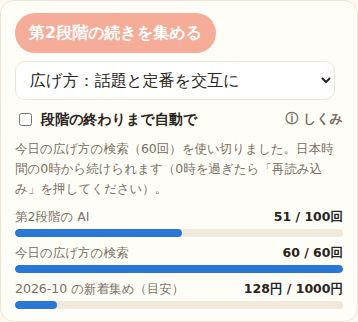
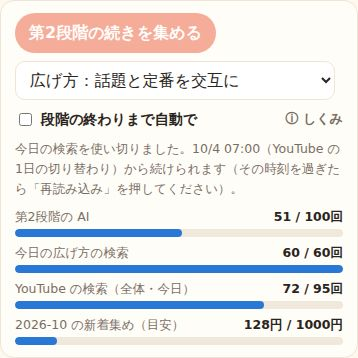
YouTube の検索をプロジェクト全体で1日95回まで数える（太平洋時間）・後回しの候補がある時はボタンを止めない（review fix #131）
Claude-Session: https://claude.ai/code/session_015zzcJcm29LmdJqCGMULFDE

Changed region(s): [[0.0307, 0.3106, 0.9832, 0.9627], [0.0307, 0.0311, 0.676, 0.2795], [0.8911, 0.2174, 0.9218, 0.2795]]

diff --git a/admin/catalog.html b/admin/catalog.html
@@ -165,7 +165,7 @@
         <details class="info" style="margin-left:auto"><summary>ⓘ しくみ</summary><div>
           品ぞろえが足りない分野の検索語で YouTube を探し、説明欄にレシピがある動画だけを AI で読みます（3本ずつ）。もう読んだ動画は0円、試した動画は重ねません。1段階は100円（目安。AI 1回＝1円で数える）まで・月の上限の中。集めた料理は28日間「新着」に出ます。<br>
           決めた検索語を使い切ったら「広げ方」へ：<b>話題</b>＝公開60日以内を再生の多い順（同じ語は7日あけて）／<b>定番</b>＝公開1年より前を再生の多い順（料理名ごと・もう2品あれば検索しない）。公開日で分けるので重なりません。<b>時短8割・30分以上2割</b>：段階の30分以上（時間不明も）が2割に届いたら、次の検索に「時短」を足します（話題・定番どちらも）。2割を超える30分以上の料理は入れません。定番は1回の検索で、説明欄の確認を通った3本まで（同じ料理のアレンジばかり増えないように）。<br>
-          <b>成績表</b>：検索語は「1回の検索で増えた20分以内の料理」の平均（まだ使っていない語は2品の見込みから＝一度は試す）が高い語から使います。投稿者は AI で読んだうち料理になった割合（1勝1敗から数える）が、3本以上読んで3割未満なら AI の前に外します（0円）。30分以上の枠がない時は、題名が長そう（煮込み・じっくり・角煮など）・時短の少ない投稿者の動画を後回しにし、題名が速そう（10分・レンジ・時短など）な動画から読みます。定番の料理名は、時短が足りない時は煮込みなどの長い料理を後回しにします。広げ方の検索は1日60回まで（日本時間の0時に戻る）。
+          <b>成績表</b>：検索語は「1回の検索で増えた20分以内の料理」の平均（まだ使っていない語は2品の見込みから＝一度は試す）が高い語から使います。投稿者は AI で読んだうち料理になった割合（1勝1敗から数える）が、3本以上読んで3割未満なら AI の前に外します（0円）。30分以上の枠がない時は、題名が長そう（煮込み・じっくり・角煮など）・時短の少ない投稿者の動画を後回しにし、題名が速そう（10分・レンジ・時短など）な動画から読みます。定番の料理名は、時短が足りない時は煮込みなどの長い料理を後回しにします。広げ方の検索は1日60回まで。YouTube の検索はプロジェクト全体で1日95回までで、一括収集は毎日の新着集め・ほかの作り方の分（30回）を残して使います。どちらも YouTube と同じ太平洋時間の0時（日本時間の16時・冬は17時）に戻ります。
         </div></details>
       </div>
       <p class="run-status" id="run-status" role="status" aria-live="polite"></p>
@@ -230,7 +230,7 @@
   const API = "https://matagochi-api-292190013809.us-central1.run.app";
   const APP = "https://165cm.github.io/matagochi/";
   const RUN_MS = 150_000; // サーバーが1回に動く時間の目安
-  const REASON = { wait: "少し待ってから（1分ほど）続きを押してください", exhausted: "検索語も、話題・定番の広げ方も使い切りました（話題は7日たつとまた使えます）", axis_exhausted: "選んだ方向を使い切りました（方向を変えると続けられます）", search_day_limit: "今日の広げ方の検索の上限に届きました（日本時間の0時から続けられます）", stage_budget: "この段階の金額に届きました", month_budget: "月の上限に届きました", time: "時間切れ（もう一度押すと続きから）", search_failed: "検索に失敗しました（もう一度押すと続きから）", cost_not_saved: "費用の記録を保存できませんでした（AI は使っていません。もう一度どうぞ）", ai_budget: "AI の全体の上限に届きました", not_configured: "設定が足りません" };
+  const REASON = { wait: "少し待ってから（1分ほど）続きを押してください", exhausted: "検索語も、話題・定番の広げ方も使い切りました（話題は7日たつとまた使えます）", axis_exhausted: "選んだ方向を使い切りました（方向を変えると続けられます）", search_day_limit: "今日の検索の上限に届きました（YouTube の1日が切り替わる時刻から続けられます）", stage_budget: "この段階の金額に届きました", month_budget: "月の上限に届きました", time: "時間切れ（もう一度押すと続きから）", search_failed: "検索に失敗しました（もう一度押すと続きから）", cost_not_saved: "費用の記録を保存できませんでした（AI は使っていません。もう一度どうぞ）", ai_budget: "AI の全体の上限に届きました", not_configured: "設定が足りません" };
   const REASON_SHORT = { wait: "待ち時間", exhausted: "使い切り", axis_exhausted: "方向を使い切り", search_day_limit: "今日の検索の上限", stage_budget: "金額に到達", month_budget: "月の上限", time: "時間切れ", search_failed: "検索に失敗", cost_not_saved: "記録の保存に失敗", ai_budget: "AI の上限", not_configured: "設定不足" };
   // 外した理由。pre：AI の前に外した（0円）／post：AI で読んだが料理にならなかった
   const SKIP = {
@@ -327,17 +327,23 @@
   function renderControls() {
     const d = last.seed || {}, stages = d.stages || [], s = stages.at(-1);
     const btn = document.getElementById("seed-run");
-    // 今日の広げ方の検索を使い切り、読む前の候補・決めた検索語もない時は、押しても増えないのでボタンを止める（2026-10-03）。
-    const wv = d.waves, dayFull = !!wv && (wv.searchedToday || 0) >= (wv.searchPerDay || 60) && !d.candidatesLeft && !d.queriesLeft;
+    // 今日の検索（広げ方の60回・プロジェクト全体の一括収集の分）を使い切り、読む前の候補・決めた検索語・後回しの候補もない時は、
+    // 押しても増えないのでボタンを止める。後回しの候補がある時は、検索せずに読めることがあるので止めない（review fix #131）。
+    const wv = d.waves, yt = d.youtubeSearch;
+    const searchFull = !!wv && ((wv.searchedToday || 0) >= (wv.searchPerDay || 60) || (!!yt && yt.used >= yt.seedCap));
+    const dayFull = searchFull && !d.candidatesLeft && !d.queriesLeft && !d.laterLeft;
+    const resetAt = yt?.resetAt || wv?.searchResetAt;
+    const when = resetAt ? new Date(resetAt).toLocaleString("ja-JP", { month: "numeric", day: "numeric", hour: "2-digit", minute: "2-digit" }) : "";
     const note = document.getElementById("limit-note");
     note.hidden = !dayFull;
-    note.textContent = dayFull ? `今日の広げ方の検索（${wv.searchPerDay}回）を使い切りました。日本時間の0時から続けられます（0時を過ぎたら「再読み込み」を押してください）。` : "";
+    note.textContent = dayFull ? `今日の検索を使い切りました。${when ? `${when}（YouTube の1日の切り替わり）` : "YouTube の1日が切り替わる時刻"}から続けられます（その時刻を過ぎたら「再読み込み」を押してください）。` : "";
     btn.disabled = busy || !last.seed || dayFull;
     btn.textContent = s && !s.done ? `第${s.n}段階の続きを集める` : `第${stages.length + 1}段階：100円分集める`;
     const box = document.getElementById("stage-progress"); box.textContent = "";
     if (s) { const limit = Math.floor((s.yen || 100) / (d.yenPerAi || 1)); box.append(meter(s.ai || 0, limit, `第${s.n}段階の AI`, `${s.ai || 0} / ${limit}回`)); }
     const w = d.waves;
-    if (w) box.append(meter(w.searchedToday || 0, w.searchPerDay || 30, "今日の広げ方の検索", `${w.searchedToday || 0} / ${w.searchPerDay || 30}回`));
+    if (w) box.append(meter(w.searchedToday || 0, w.searchPerDay || 60, "今日の広げ方の検索", `${w.searchedToday || 0} / ${w.searchPerDay || 60}回`));
+    if (yt) box.append(meter(yt.used, yt.perDay, "YouTube の検索（全体・今日）", `${yt.used} / ${yt.perDay}回`));
     const m = (last.catalog?.cost || [])[0];
     if (m) box.append(meter(m.yen, m.cap, `${m.month} の新着集め（目安）`, `${yen(m.yen)} / ${yen(m.cap)}`));
   }

diff --git a/api/src/server.js b/api/src/server.js
@@ -13,6 +13,7 @@ import { createImageImporter } from "./imageImport.js";
 import { analyzeRecipeDescription, analyzeRecipeImages, analyzeRecipeVideo, analyzeStepTimes, matchStepsToChapters, writeCatchCopies, nameDishes, judgeDishPhoto, drawMenuBoard, checkMenuBoard, describeMenu } from "./analyzer.js";
 import { createSkillJudge } from "./skillPhoto.js";
 import { createVariantSearch } from "./variants.js";
+import { createSearchQuota } from "./searchQuota.js";
 import { createPushDesk } from "./push.js";
 import { createWeeklyMenu } from "./weeklyMenu.js";
 import { createFeedbackDesk } from "./feedback.js";
@@ -53,8 +54,12 @@ export function createApp(env = process.env, deps = {}) {
   // 掲載停止・再開が変わったら、新着・みんなの定番の表示キャッシュをすぐ捨てる（停止した料理を10分残さない）。
   const creatorDesk = createCreatorDesk(recipeStore, { resolveChannel: deps.resolveChannel || ((x) => resolveYouTubeChannel(x, env)), now: deps.now || Date.now, onChange: () => { trendBook?.clearCache?.(); popularBook?.clearCache?.(); } });
   const dishBook = createDishBook(recipeStore, { now: deps.now || Date.now });
-  const trendBook = createTrendBook(recipeStore, { dishBook, nameDishes: deps.nameDishes || ((items) => nameDishes(items, env)), catalog, optedOut: () => creatorDesk.optedOut(), search: deps.searchRecipes || ((q, o) => searchYouTubeRecipes(q, o, env)),
-    searchChannels: deps.searchChannels || ((q) => searchYouTubeChannels(q, env)), channelUploads: deps.channelUploads || ((id, o) => fetchChannelUploads(id, o, env)), channelIcons: deps.channelIcons || ((ids) => fetchChannelIcons(ids, env)), writeCatches: deps.writeCatches || (env.GOOGLE_CLOUD_PROJECT ? (items) => writeCatchCopies(items, env) : undefined), videoDetails: deps.videoDetails || (env.YOUTUBE_API_KEY ? (ids) => fetchYouTubeStatuses(ids, env) : null), reserveBudget: () => catalog.reserveAnalysisBudget(), now: deps.now || Date.now, dailyLimit: Number(env.AI_DAILY_LIMIT || 100),
+  // YouTube の検索（search.list）は、プロジェクト全体で1日の回数を数えてから呼ぶ（太平洋時間で切り替わる。review fix #131）。
+  const searchQuota = createSearchQuota(recipeStore, { now: deps.now || Date.now });
+  const rawSearch = deps.searchRecipes || ((q, o) => searchYouTubeRecipes(q, o, env));
+  const guardedSearch = searchQuota.wrap(rawSearch, "trend");
+  const trendBook = createTrendBook(recipeStore, { dishBook, nameDishes: deps.nameDishes || ((items) => nameDishes(items, env)), catalog, optedOut: () => creatorDesk.optedOut(), search: guardedSearch,
+    searchChannels: searchQuota.wrap(deps.searchChannels || ((q) => searchYouTubeChannels(q, env)), "channel"), channelUploads: deps.channelUploads || ((id, o) => fetchChannelUploads(id, o, env)), channelIcons: deps.channelIcons || ((ids) => fetchChannelIcons(ids, env)), writeCatches: deps.writeCatches || (env.GOOGLE_CLOUD_PROJECT ? (items) => writeCatchCopies(items, env) : undefined), videoDetails: deps.videoDetails || (env.YOUTUBE_API_KEY ? (ids) => fetchYouTubeStatuses(ids, env) : null), reserveBudget: () => catalog.reserveAnalysisBudget(), now: deps.now || Date.now, dailyLimit: Number(env.AI_DAILY_LIMIT || 100),
     ...(Number(env.TREND_PER_DAY) > 0 ? { perDay: Number(env.TREND_PER_DAY) } : {}), ...(Number(env.TREND_WEEK_MAX) > 0 ? { weekMax: Number(env.TREND_WEEK_MAX) } : {}),
     ...(Number(env.TREND_AI_PER_DAY) > 0 ? { aiPerDay: Number(env.TREND_AI_PER_DAY) } : {}), ...(Number(env.TREND_AI_PER_WEEK) > 0 ? { aiPerWeek: Number(env.TREND_AI_PER_WEEK) } : {}),
     // 月の費用の上限（円）と、AI を1回呼ぶ費用の目安（円）。β版の間は月1,000円（docs/PERSONALIZE_PLAN.md §2）。
@@ -62,7 +67,7 @@ export function createApp(env = process.env, deps = {}) {
   const housekeeping = createHousekeeping(recipeStore, { catalog, now: deps.now || Date.now });
   const popularBook = createPopularBook(recipeStore, { catalog, now: deps.now || Date.now, optedOut: () => creatorDesk.optedOut(), isTrend: (videoId) => trendBook.has(videoId), dishBook });
   const skillJudge = createSkillJudge(recipeStore, { judge: deps.judgeDishPhoto || ((image) => judgeDishPhoto(image, env)), reserveBudget: () => catalog.reserveAnalysisBudget(), now: deps.now || Date.now });
-  const variantSearch = createVariantSearch(recipeStore, { search: deps.searchRecipes || ((q, o) => searchYouTubeRecipes(q, o, env)), optedOut: () => creatorDesk.optedOut(), now: deps.now || Date.now });
+  const variantSearch = createVariantSearch(recipeStore, { search: searchQuota.wrap(rawSearch, "variant"), optedOut: () => creatorDesk.optedOut(), now: deps.now || Date.now });
   const pushDesk = createPushDesk(recipeStore, { send: deps.sendPush, subject: env.PUSH_SUBJECT || "https://165cm.github.io/matagochi/", now: deps.now || Date.now });
   const feedbackDesk = createFeedbackDesk(recipeStore, { now: deps.now || Date.now });
   const usageBook = createUsageBook(recipeStore, { now: deps.now || Date.now });
@@ -325,12 +330,12 @@ export function createApp(env = process.env, deps = {}) {
     res.setHeader("Cache-Control", "no-store");
     if (!isAdmin(req)) return res.status(403).json({ error: { code: "forbidden", message: "管理者認証が必要です。" } });
     // axis：検索語を使い切った後に広げる方向（both＝話題と定番を交互／trend＝話題／classic＝定番）。
-    send(res, trendBook.seed({ yen: Number(req.body?.yen) || 100, axis: String(req.body?.axis || "both") }));
+    send(res, trendBook.seed({ yen: Number(req.body?.yen) || 100, axis: String(req.body?.axis || "both") }).then(async (r) => (r?.busy ? r : { ...r, youtubeSearch: await searchQuota.status() })));
   });
   app.get("/api/admin/trends/seed", (req, res) => {
     res.setHeader("Cache-Control", "no-store");
     if (!isAdmin(req)) return res.status(403).json({ error: { code: "forbidden", message: "管理者認証が必要です。" } });
-    send(res, trendBook.seedStatus().then((d) => ({ stages: d.stages || [], queriesLeft: Math.max(0, SEED_QUERIES.length - (d.q || 0)), candidatesLeft: (d.candidates || []).length, laterLeft: (d.later || []).length,
+    send(res, trendBook.seedStatus().then(async (d) => ({ stages: d.stages || [], queriesLeft: Math.max(0, SEED_QUERIES.length - (d.q || 0)), candidatesLeft: (d.candidates || []).length, laterLeft: (d.later || []).length, youtubeSearch: await searchQuota.status(),
       // 検索語の一覧と進み具合（済み／いまの候補を読んでいる／これから）。段階の上限の回数を出すための目安の単価。
       queries: SEED_QUERIES.map(([q, label], i) => ({ q, label, status: i < (d.q || 0) - ((d.candidates || []).some((c) => !c.wave) ? 1 : 0) ? "done" : i < (d.q || 0) ? "current" : "todo" })),
       waves: waveStatus(d, (deps.now || Date.now)()),

diff --git a/api/test/searchQuota.test.js b/api/test/searchQuota.test.js
@@ -1,0 +1,96 @@
+import test from 'node:test';
+import assert from 'node:assert/strict';
+import { once } from 'node:events';
+import { readFileSync } from 'node:fs';
+import { createMemorySyncStore } from '../src/syncStore.js';
+import { createSearchQuota, pacificDay, nextPacificMidnight, YT_SEARCH_PER_DAY, YT_SEARCH_KEEP_FOR_OTHERS } from '../src/searchQuota.js';
+import { createTrendBook, SEED_QUERIES, WAVE_TREND_WORDS } from '../src/trends.js';
+process.env.NODE_ENV = 'test';
+const { createApp } = await import('../src/server.js');
+
+// review fix (#131)：YouTube の検索（search.list）は、プロジェクト全体で1日の回数を守る。1日は太平洋時間（YouTube と同じ）。
+test('quota: the day follows Pacific time (16:00 JST in summer, 17:00 in winter), not Japan time', () => {
+  assert.equal(pacificDay(Date.parse('2026-10-03T09:41:00Z')), '2026-10-03');
+  assert.equal(new Date(nextPacificMidnight(Date.parse('2026-10-03T09:41:00Z'))).toISOString(), '2026-10-04T07:00:00.000Z');
+  assert.equal(new Date(nextPacificMidnight(Date.parse('2026-12-01T12:00:00Z'))).toISOString(), '2026-12-02T08:00:00.000Z');
+  // 日本時間の0時（UTC 15時）をまたいでも、太平洋時間の日付は同じ
+  assert.equal(pacificDay(Date.parse('2026-10-03T14:59:00Z')), pacificDay(Date.parse('2026-10-03T15:01:00Z')));
+});
+
+test('quota: one shared count; the bulk collection leaves 30 for the others; it does not reset at midnight in Japan', async () => {
+  let now = Date.parse('2026-10-03T14:00:00Z'); // 日本時間 23:00
+  const store = createMemorySyncStore();
+  const q = createSearchQuota(store, { now: () => now });
+  let seed = 0;
+  while (await q.take('seed')) seed += 1;
+  assert.equal(seed, YT_SEARCH_PER_DAY - YT_SEARCH_KEEP_FOR_OTHERS);
+  now = Date.parse('2026-10-03T15:30:00Z'); // 日本時間 0:30（翌日）でも同じ YouTube の1日
+  assert.equal(await q.take('seed'), false, 'no new searches after midnight in Japan');
+  let other = 0;
+  while (await q.take('variant')) other += 1;
+  assert.equal(other, YT_SEARCH_KEEP_FOR_OTHERS);
+  const st = await q.status();
+  assert.deepEqual([st.used, st.by.seed, st.by.variant], [YT_SEARCH_PER_DAY, 65, 30]);
+  now = Date.parse('2026-10-04T07:00:00Z'); // 太平洋時間の0時
+  assert.equal(await q.take('seed'), true);
+  assert.equal((await q.status()).used, 1);
+});
+
+test('quota: when the store cannot be read or written, no search is made', async () => {
+  const q = createSearchQuota({ get: async () => { throw new Error('down'); }, put: async () => true });
+  assert.equal(await q.take('trend'), false);
+  const q2 = createSearchQuota({ get: async () => null, put: async () => { throw new Error('down'); } });
+  assert.equal(await q2.take('trend'), false);
+  let called = 0;
+  await assert.rejects(q2.wrap(async () => { called += 1; return []; })('x'), (e) => e.code === 'youtube_search_quota');
+  assert.equal(called, 0);
+});
+
+test('quota: the seed stops with search_day_limit when the shared quota is used up, without using up its word or its own daily count', async () => {
+  const now = Date.parse('2026-10-03T09:00:00Z');
+  const store = createMemorySyncStore();
+  await store.put('trends/seed', { stages: [], q: SEED_QUERIES.length, candidates: [], tried: [] }, { ifGeneration: 0 });
+  const quota = createSearchQuota(store, { now: () => now, perDay: 35, keepForOthers: 30 });
+  const searched = [];
+  const catalog = { async peek() { return null; }, async refresh() { return true; }, async import() { throw new Error('no'); } };
+  const book = createTrendBook(store, { catalog, now: () => now, yenPerAi: 1, yenPerMonth: 1000, search: quota.wrap(async (q) => { searched.push(q); return []; }, 'trend') });
+  const r = await book.seed({ yen: 10, axis: 'trend' });
+  assert.equal(r.reason, 'search_day_limit');
+  assert.equal(searched.length, 5, 'seed cap = 35 - 30');
+  assert.equal(r.waves.searchedToday, 5, 'the refused search is not counted');
+  assert.equal(r.waves.trendReady, WAVE_TREND_WORDS.length - 5, 'the refused word stays unused');
+  assert.equal((await quota.status()).by.seed, 5);
+});
+
+test('quota: all search paths share it through the server (seed, daily collection, other ways to cook), and the admin status shows it', async (t) => {
+  const store = createMemorySyncStore();
+  await store.put('trends/seed', { stages: [], q: SEED_QUERIES.length, candidates: [], tried: [] }, { ifGeneration: 0 });
+  // 今日はもう90回使った
+  await store.put('youtube/search-quota', { day: pacificDay(Date.now()), n: YT_SEARCH_PER_DAY - 5, by: { trend: 90 } }, { ifGeneration: 0 });
+  let calls = 0;
+  const app = createApp({ RECIPE_ADMIN_TOKEN: 'admin-test-token' }, { recipeStore: store, syncStore: null, photoStore: null, resolveChannel: async () => null, searchRecipes: async () => { calls += 1; return []; } });
+  const server = app.listen(0, '127.0.0.1');
+  await once(server, 'listening');
+  t.after(() => new Promise((resolve) => { server.closeAllConnections?.(); server.close(resolve); }));
+  const base = `http://127.0.0.1:${server.address().port}`;
+  const auth = { Authorization: 'Bearer admin-test-token', 'Content-Type': 'application/json' };
+  const r = await (await fetch(base + '/api/admin/trends/seed', { method: 'POST', headers: auth, body: JSON.stringify({ yen: 10 }) })).json();
+  assert.equal(r.reason, 'search_day_limit');
+  assert.equal(calls, 0, 'the seed leaves the last searches for the others');
+  for (let i = 0; i < 5; i++) {
+    const res = await fetch(base + '/api/search/variants', { method: 'POST', headers: { 'Content-Type': 'application/json' }, body: JSON.stringify({ q: `肉じゃが${i}` }) });
+    assert.equal(res.status, 200);
+  }
+  const over = await fetch(base + '/api/search/variants', { method: 'POST', headers: { 'Content-Type': 'application/json' }, body: JSON.stringify({ q: '肉じゃが9' }) });
+  assert.equal(over.status, 429);
+  assert.equal((await over.json()).error.code, 'youtube_search_quota');
+  assert.equal(calls, 5);
+  const st = await (await fetch(base + '/api/admin/trends/seed', { headers: auth })).json();
+  assert.deepEqual([st.youtubeSearch.used, st.youtubeSearch.perDay, st.youtubeSearch.seedCap], [YT_SEARCH_PER_DAY, YT_SEARCH_PER_DAY, YT_SEARCH_PER_DAY - YT_SEARCH_KEEP_FOR_OTHERS]);
+  assert.ok(st.youtubeSearch.resetAt);
+});
+
+test('review fix (#131): the admin button stays usable while put-off candidates remain (they may be read without searching)', () => {
+  const html = readFileSync(new URL('../../admin/catalog.html', import.meta.url), 'utf8');
+  assert.match(html, /const dayFull = searchFull && !d\.candidatesLeft && !d\.queriesLeft && !d\.laterLeft;/);
+});

diff --git a/api/src/trends.js b/api/src/trends.js
@@ -2,6 +2,7 @@ import { ApiError } from "./errors.js";
 import { canonicalYouTubeUrl } from "./youtube.js";
 import { usage, usageYen } from "./aiUsage.js";
 import { createDishBook } from "./dishes.js";
+import { pacificDay, nextPacificMidnight } from "./searchQuota.js";
 
 // 新着レシピ：YouTubeから選んで読み取り、28日で消す（YouTube APIのデータは30日を超えて持たない）。
 // 集める処理と、見せる枠を分ける（docs/PERSONALIZE_PLAN.md §7.3・§12-7）：
@@ -218,7 +219,8 @@ export function waveStatus(doc, nowMs) {
     words: Object.entries(w.words || {}).map(([word, st]) => ({ word, axis: WAVE_TREND_WORDS.includes(word) ? "trend" : "classic", s: st.s || 0, fast: st.fast || 0, added: st.added || 0, score: Math.round(wordScore(st) * 100) / 100 })).sort((a, b) => b.score - a.score || b.s - a.s),
     wordPrior: WORD_PRIOR_FAST, channels: channelSummary(doc?.channels),
     quickMaxMinutes: QUICK_MAX_MINUTES, quickLongShare: QUICK_LONG_SHARE, trendReuseDays: WAVE_TREND_REUSE_DAYS,
-    searchedToday: w.day?.on === new Date(nowMs + 9 * 3_600_000).toISOString().slice(0, 10) ? w.day.n : 0, searchPerDay: WAVE_SEARCH_PER_DAY, log: (w.log || []).slice(-60).reverse() };
+    // 1日は YouTube と同じ太平洋時間（0時に戻る。review fix #131）。
+    searchedToday: w.day?.on === pacificDay(nowMs) ? w.day.n : 0, searchPerDay: WAVE_SEARCH_PER_DAY, searchResetAt: new Date(nextPacificMidnight(nowMs)).toISOString(), log: (w.log || []).slice(-60).reverse() };
 }
 // 対象の国と言語。いまは日本の動画だけ（タイトルに日本語がない動画は外す）。海外展開の時はここに国を足す。
 export const TREND_MARKET = { regionCode: "JP", relevanceLanguage: "ja", titleLooksLocal: (title) => /[ぁ-んァ-ヶ一-龠]/.test(String(title || "")) };
@@ -608,7 +610,8 @@ export function createTrendBook(store, { catalog, search, optedOut = async () =>
             let q, label, opts = { videoDuration: "medium" }, wave = null;
             if (doc.q < SEED_QUERIES.length) [q, label] = SEED_QUERIES[doc.q];
             else {
-              const day = doc.waves?.day?.on === today ? doc.waves.day.n : 0;
+              const ytDay = pacificDay(now());
+              const day = doc.waves?.day?.on === ytDay ? doc.waves.day.n : 0;
               if (day >= WAVE_SEARCH_PER_DAY) { reason = "search_day_limit"; break; }
               doc.waves ||= emptyWaves();
               const waveDoc = structuredClone(doc.waves);
@@ -616,13 +619,19 @@ export function createTrendBook(store, { catalog, search, optedOut = async () =>
               // 選んだ方向だけ使い切った時は、段階を終わりにしない（もう一方の方向で続けられる）。
               if (!wave) { reason = axis === "both" ? "exhausted" : "axis_exhausted"; break; }
               ({ q, label, opts } = wave);
-              doc.waves.day = { on: today, n: day + 1 };
+              doc.waves.day = { on: ytDay, n: day + 1 };
               waveUndo = waveDoc;
             }
             let found;
             // 失敗した時は、同じ検索語をあとでやり直せるように位置を戻す（呼んだ検索の回数 day は戻さない＝1日の上限を守る）。
             const undoWave = () => { if (wave) doc.waves = { ...waveUndo, day: doc.waves.day }; };
-            try { found = await search(q, opts); } catch { undoWave(); reason = "search_failed"; break; }
+            // quotaKind：プロジェクト全体の YouTube の検索の枠（searchQuota.js）で、ほかの分を残して使う。
+            // 枠がなくて検索しなかった時は、検索語も今日の回数も戻す（YouTube を呼んでいない）。
+            try { found = await search(q, { ...opts, quotaKind: "seed" }); }
+            catch (error) {
+              if (error?.code === "youtube_search_quota") { if (wave) doc.waves = waveUndo; reason = "search_day_limit"; break; }
+              undoWave(); reason = "search_failed"; break;
+            }
             const perChannel = {};
             const picked = [];
             for (const c of found) {

diff --git a/api/src/searchQuota.js b/api/src/searchQuota.js
@@ -1,0 +1,58 @@
+import { ApiError } from "./errors.js";
+
+// YouTube の検索（search.list）の1日の枠を、プロジェクト全体で1つの数で守る（2026-10-03・review fix #131）。
+// YouTube 側の1日は太平洋時間の0時に切り替わる。search.list は既定で1日100回まで（ほかの API とは別の枠）。
+// 呼ぶ直前に1回分を予約する（保存できなければ呼ばない）。一括収集（seed）は、毎日の新着集め・チャンネル検索・ほかの作り方の分を残して使う。
+export const YT_SEARCH_PER_DAY = 95; // 100回のうち5回は余裕に残す
+export const YT_SEARCH_KEEP_FOR_OTHERS = 30; // 一括収集が使わずに残す回数（毎日の新着集め9回・チャンネル検索5回・ほかの作り方）
+
+const PACIFIC = new Intl.DateTimeFormat("en-CA", { timeZone: "America/Los_Angeles", year: "numeric", month: "2-digit", day: "2-digit" });
+// 太平洋時間の日付（YYYY-MM-DD）。
+export const pacificDay = (ms) => PACIFIC.format(new Date(ms));
+// 次に太平洋時間の0時になる時刻（ms）。夏時間の切り替えも Intl に任せる（1時間ずつ進めて日付が変わる所を探す）。
+export function nextPacificMidnight(ms) {
+  const today = pacificDay(ms);
+  let t = Math.floor(ms / 3_600_000) * 3_600_000;
+  // 太平洋時間は UTC から時の単位でずれるので、日付が変わった最初の「ちょうどの時」が0時。
+  for (let i = 0; i < 30 && pacificDay(t) === today; i++) t += 3_600_000;
+  return t;
+}
+
+export function createSearchQuota(store, { now = Date.now, perDay = YT_SEARCH_PER_DAY, keepForOthers = YT_SEARCH_KEEP_FOR_OTHERS } = {}) {
+  const KEY = "youtube/search-quota";
+  const read = async () => {
+    const entry = await store.get(KEY);
+    const day = pacificDay(now());
+    const doc = entry?.envelope?.day === day ? entry.envelope : { day, n: 0, by: {} };
+    return { entry, doc };
+  };
+  const api = {
+    // 1回分を予約する。kind が "seed" の時は、ほかの分（keepForOthers）を残す。予約できたら true。
+    async take(kind = "other") {
+      const cap = kind === "seed" ? perDay - keepForOthers : perDay;
+      for (let attempt = 0; attempt < 3; attempt++) {
+        let entry, doc;
+        try { ({ entry, doc } = await read()); } catch { return false; }
+        if (doc.n >= cap) return false;
+        const next = { day: doc.day, n: doc.n + 1, by: { ...doc.by, [kind]: (doc.by?.[kind] || 0) + 1 } };
+        let ok;
+        try { ok = await store.put(KEY, next, { ifGeneration: entry?.generation ?? 0 }); } catch { return false; }
+        if (ok) return true;
+      }
+      return false;
+    },
+    async status() {
+      const { doc } = await read().catch(() => ({ doc: { day: pacificDay(now()), n: 0, by: {} } }));
+      return { day: doc.day, used: doc.n, by: doc.by || {}, perDay, seedCap: perDay - keepForOthers, resetAt: new Date(nextPacificMidnight(now())).toISOString() };
+    },
+    // search 関数を包む：呼ぶ前に予約。予約できなければ ApiError（429）。opts.quotaKind で種類を分ける（YouTube には送らない）。
+    wrap(search, kind = "other") {
+      return async (q, opts = {}) => {
+        const { quotaKind, ...rest } = opts || {};
+        if (!(await api.take(quotaKind || kind))) throw new ApiError(429, "youtube_search_quota", "今日の YouTube の検索はここまでです。あとでまた試してください。");
+        return search(q, rest);
+      };
+    },
+  };
+  return api;
+}

diff --git a/docs/APP_MAP.md b/docs/APP_MAP.md
@@ -727,7 +727,7 @@ flowchart LR
 - **定番で長く愛される**：公開から1年より前の動画を、再生の多い順に（`publishedBefore`）。定番の料理名40品（`WAVE_CLASSIC_DISHES`。分野を混ぜて並べる）を1品1回。新着にもう同じ料理名が2品あれば検索しない（0円・YouTube の枠も使わない）
 - **重ならない**：公開日で分ける（60日以内／1年より前）ので、2方向で同じ動画は出ない。試した動画・新着にある動画を重ねない・同じ投稿者は1回の検索で2本まで・説明欄の事前チェックは今までどおり
 - **方向を選べる**：管理の画面で「話題と定番を交互に」（ふつう）／「話題だけ」／「定番だけ」。選んだ方向だけ使い切った時は段階を終わりにしない（`axis_exhausted`。方向を変えると続けられる）。両方を使い切ると段階の終わり（`exhausted`。話題は7日たつとまた使える）
-- **むだを省く**：AI の枠を使い切ったら新しく検索しない。広げ方の検索は1日60回まで（`search_day_limit`。1回100単位。毎日の新着集めの分を残す。日本時間の0時に戻る。2026-10-03 に30回 → 60回）。上限に届き、読む前の候補・決めた検索語もない時は、管理の画面のボタンを止めて「日本時間の0時から続けられます」と出す。検索に失敗したら同じ語をあとでやり直す（失敗した検索も1日の回数に数える）
+- **むだを省く**：AI の枠を使い切ったら新しく検索しない。広げ方の検索は1日60回まで（`search_day_limit`。2026-10-03 に30回 → 60回）。**YouTube の検索（search.list）はプロジェクト全体で1日95回まで**（`api/src/searchQuota.js`。既定の枠は1日100回・ほかの API とは別。`youtube/search-quota` に数え、呼ぶ直前に1回分を予約。保存できなければ呼ばない）。一括収集・毎日の新着集め・チャンネル検索・ほかの作り方のすべてが同じ数を使い、一括収集はほかの分30回を残す（65回まで。枠がなくて検索しなかった時は、検索語も広げ方の回数も戻す）。ほかの作り方は枠がなければ「今日の YouTube の検索はここまで」（429）。**1日は YouTube と同じ太平洋時間**（0時＝日本時間の16時・冬は17時。広げ方の60回も同じ日付で数える）。上限に届き、読む前の候補・決めた検索語・後回しの候補もない時は、管理の画面のボタンを止めて切り替わりの時刻を出す（後回しの候補がある時は、検索せずに読めることがあるので止めない）。管理の画面に「YouTube の検索（全体・今日）」。検索に失敗したら同じ語をあとでやり直す（失敗した検索も1日の回数に数える）
 - **記録**：`trends/seed` の `waves`（使った語・日・候補の数・増えた品数。最新200件）。段階の `byAxis`（話題・定番で増えた品数）。題名は保存しない
 - **画面**：検索語の欄に「使い切った後の広げ方」（残り・方向ごとに増えた料理・検索ごとの候補と増えた品数）。決めた検索語の一覧は、使い切ったら畳む
 

diff --git a/docs/CURRENT_TASK.md b/docs/CURRENT_TASK.md
@@ -13,7 +13,7 @@
 
 | 担当 | 状態 | ブランチ | 内容 | 触るファイル |
 |---|---|---|---|---|
-| Claude | レビュー待ち | claude/optimistic-albattani-jg5211 | 広げ方の検索を1日60回に・上限の時はボタンを止めて0時からと出す・30分以上の余地がない時は長い定番を後回し（APP_MAP §46-3・§46-5） | api/src/trends.js・admin/catalog.html・api/test・docs |
+| Claude | レビュー待ち | claude/optimistic-albattani-jg5211 | 広げ方の検索を1日60回に・YouTube の検索をプロジェクト全体で数える（太平洋時間・95回）・上限の時はボタンを止めて切り替わりの時刻を出す・30分以上の余地がない時は長い定番を後回し（APP_MAP §46-3・§46-5） | api/src/trends.js・api/src/searchQuota.js・api/src/server.js・admin/catalog.html・api/test・docs |
 
 ## 次のタスク（上から優先・`docs/PERSONALIZE_PLAN.md` §13）
 

diff --git a/docs/DEVELOPMENT.md b/docs/DEVELOPMENT.md
@@ -31,7 +31,7 @@ git worktree add ../matagochi-codex  -b codex/<タスク名>  origin/main
 
 ```
 node --test test/*.cjs                 # アプリ（vanilla JS）。今は 247件
-cd api && node --test                  # API（Node）。今は 210件
+cd api && node --test                  # API（Node）。今は 216件
 ```
 
 - CI（`.github/workflows/test.yml`）は PR ごとに上の2つと `node --check`、`git diff --check` を回す
